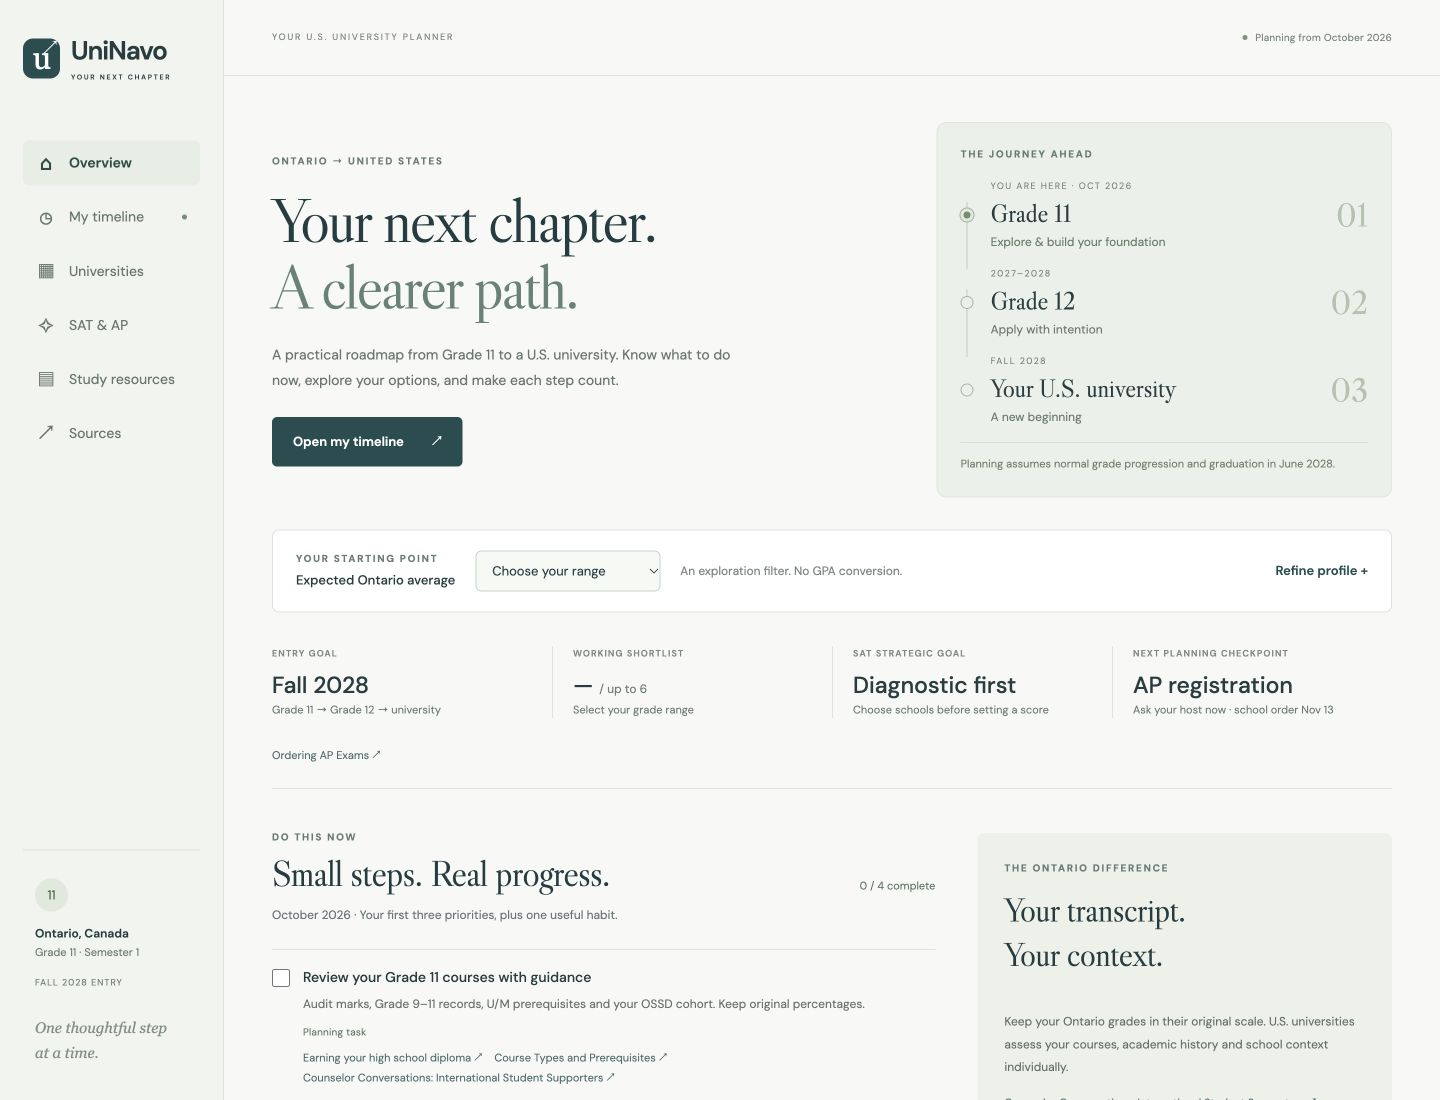
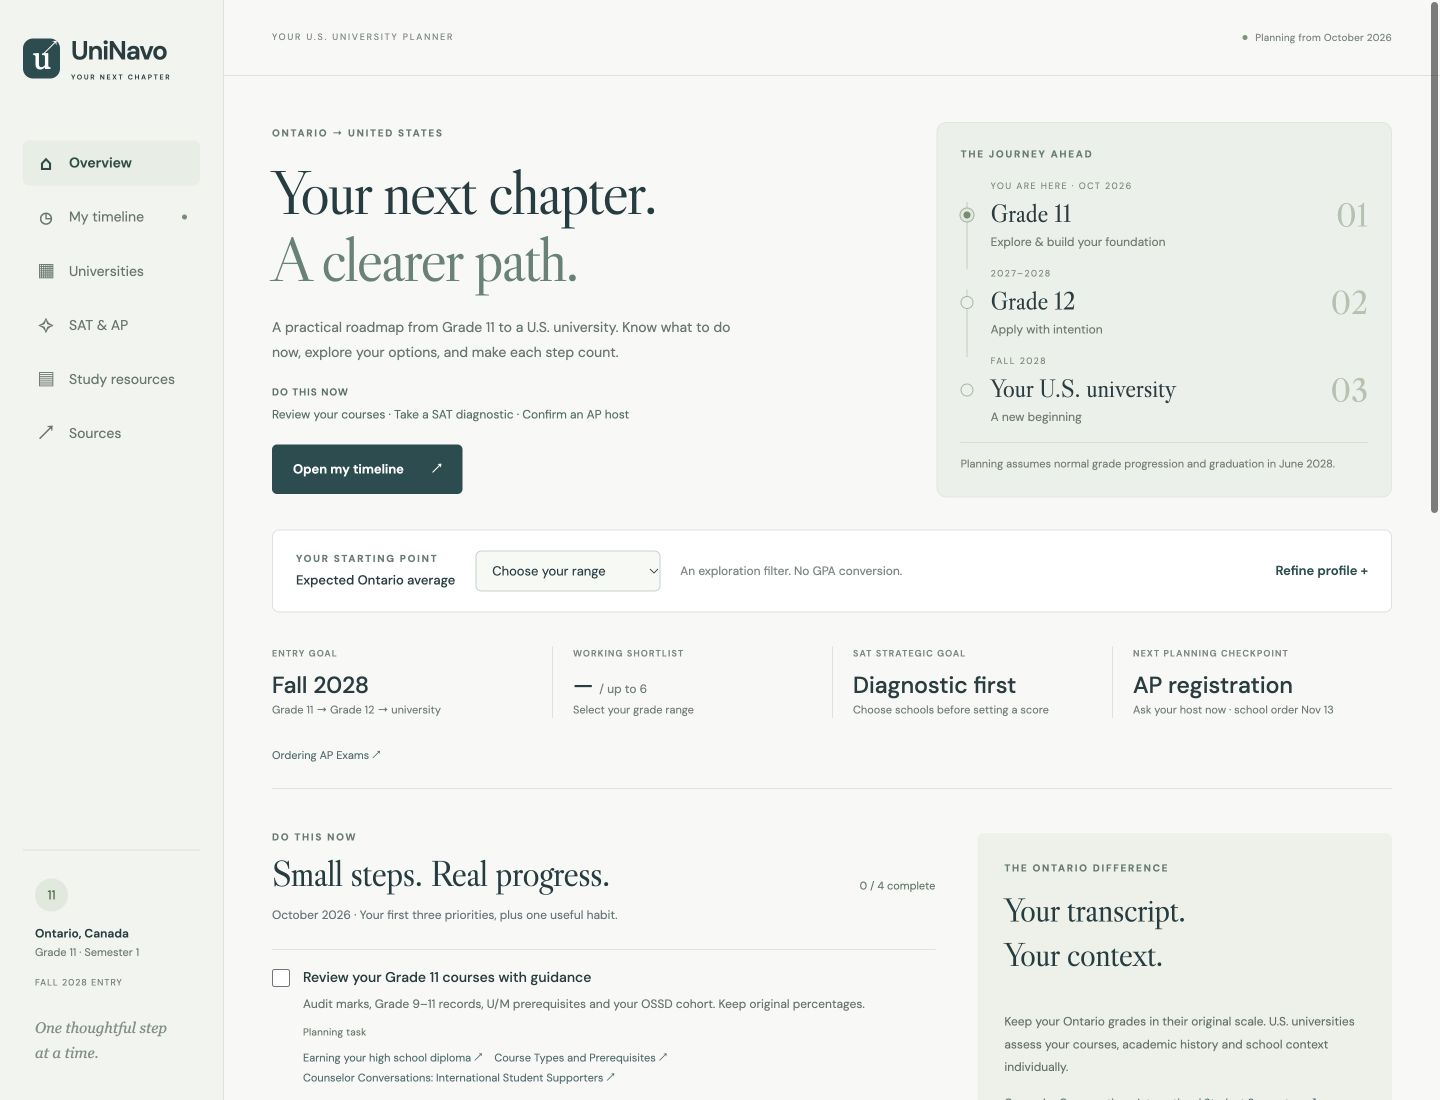
Document verified live site and publication workflow

Changed region(s): [[0.1875, 0.0927, 0.5, 0.4636], [0.9688, 0.0, 1.0, 0.4636]]

diff --git a/README.md b/README.md
@@ -1,5 +1,7 @@
 # UniNavo
 
+**Live site:** https://ivyparc.github.io/UniNavo/ · **Implementation PR:** https://github.com/ivyparc/UniNavo/pull/1
+
 A source-linked U.S. university admission planner for an Ontario student in Grade 11, Semester 1 (October 2026), targeting Fall 2028 entry. The planner assumes normal progression to Grade 12 in 2027–28 and high-school graduation in June 2028. This is planning guidance, not an admission guarantee.
 
 ## Run locally
@@ -99,3 +101,17 @@ The only project repository is **https://github.com/ivyparc/UniNavo**. Work is p
 The production `dist/` output is static. `pnpm build:pages` builds with the `/UniNavo/` asset base for GitHub Pages. Hash-based routes need no server-side fallback beyond `index.html`.
 
 GitHub Pages publication uses a separate `codex/site` branch in this same repository containing only the built static output and `.nojekyll`. Source development remains on `codex/us-college-planner`. Updating the deployed build requires rebuilding and publishing that artifact branch; source changes do not silently redeploy the site.
+
+### Republishing the existing Pages branch
+
+After reviewing and committing source/data updates, run `pnpm build:pages`. Publish the resulting `dist/` files to the root of the existing `codex/site` branch, retaining `.nojekyll`, with a normal new commit and fast-forward push to **ivyparc/UniNavo**. Use a separate working tree for that branch so generated files cannot replace the source checkout. Never force-push or change repository identity. Check the repository's Pages deployment result and open the live URL before claiming the update is published. No Pages settings change is needed for subsequent artifact updates.
+
+### Verification record
+
+- Local validation, typecheck, lint, 11 tests and both standard/Pages production builds passed.
+- GitHub Actions `Validate planner` passed for the implementation commit.
+- Browser inspection at 1440px desktop, 820px tablet and 390px mobile found no document-level horizontal overflow. The mobile SAT table scrolls inside its container.
+- Verified grade filtering, six-pick generation, low-band empty state, advanced state filter, university detail sources, Escape/focus return, AP tab, source search, checklist persistence and saved-school persistence.
+- The deployed Pages URL loaded successfully with no observed console errors; navigation and the university detail dialog worked on the production bundle.
+
+![Desktop preview](docs/preview.jpg)
